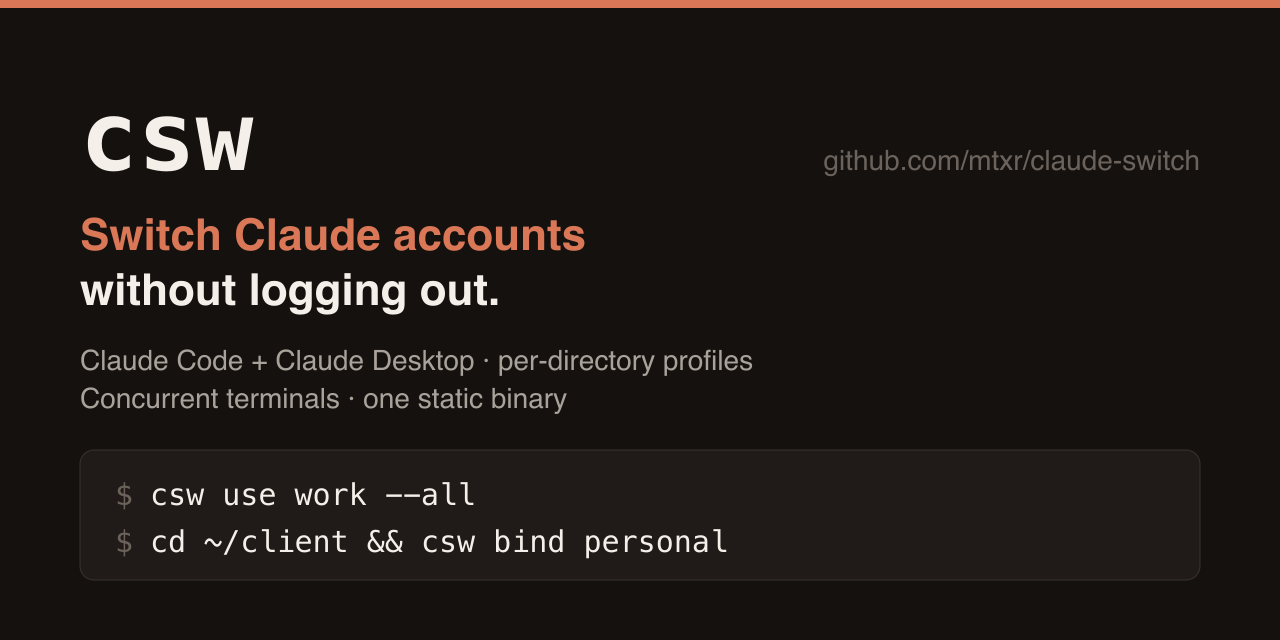
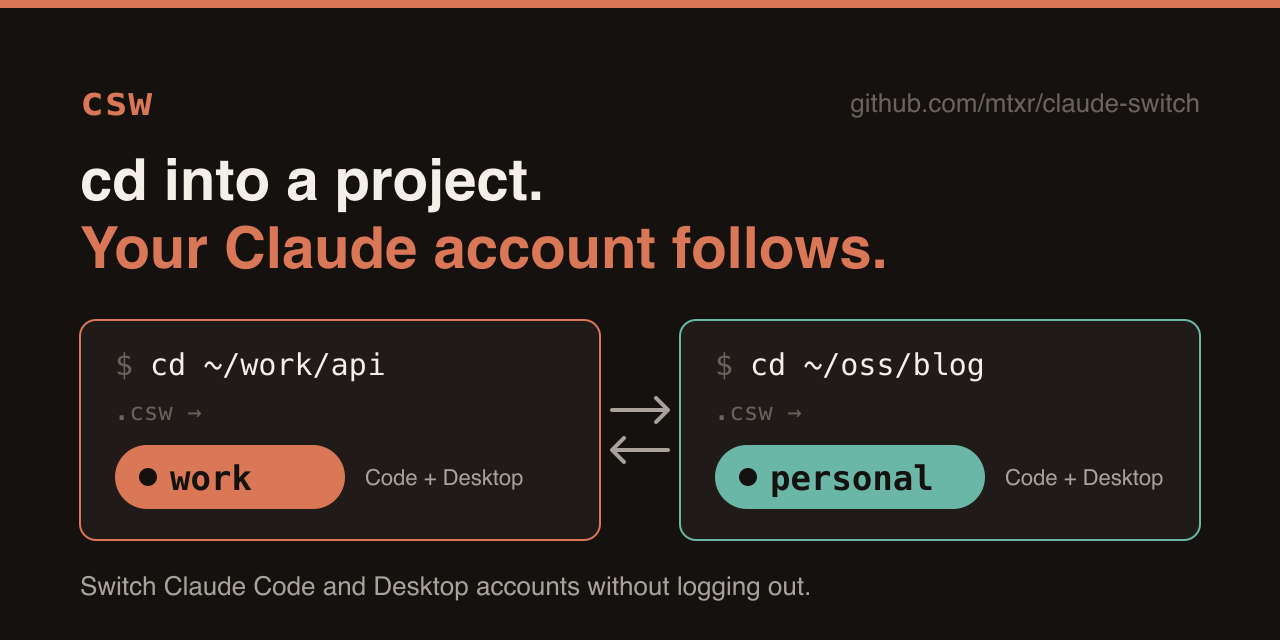
docs(readme): lead with multiple accounts and rework the social preview around bind

diff --git a/README.md b/README.md
@@ -4,7 +4,7 @@
 [![CI](https://github.com/mtxr/claude-switch/actions/workflows/ci.yml/badge.svg)](https://github.com/mtxr/claude-switch/actions/workflows/ci.yml)
 [![License: MIT](https://img.shields.io/badge/license-MIT-blue.svg)](LICENSE)
 
-**Hit your rate limit? Switch Claude accounts in one command, without logging out.** Works for Claude Code and Claude Desktop. `csw` keeps one profile per account, lets several terminals use different accounts at the same time, and picks the account from the directory you are in.
+**Use multiple Claude accounts, work and personal, without ever logging out.** Works for Claude Code and Claude Desktop. `csw` keeps one profile per account, lets several terminals use different accounts at the same time, and picks the account from the directory you are in.
 
 ![csw switching accounts: use, per-directory bindings and run](docs/demos/demo.gif)
 
